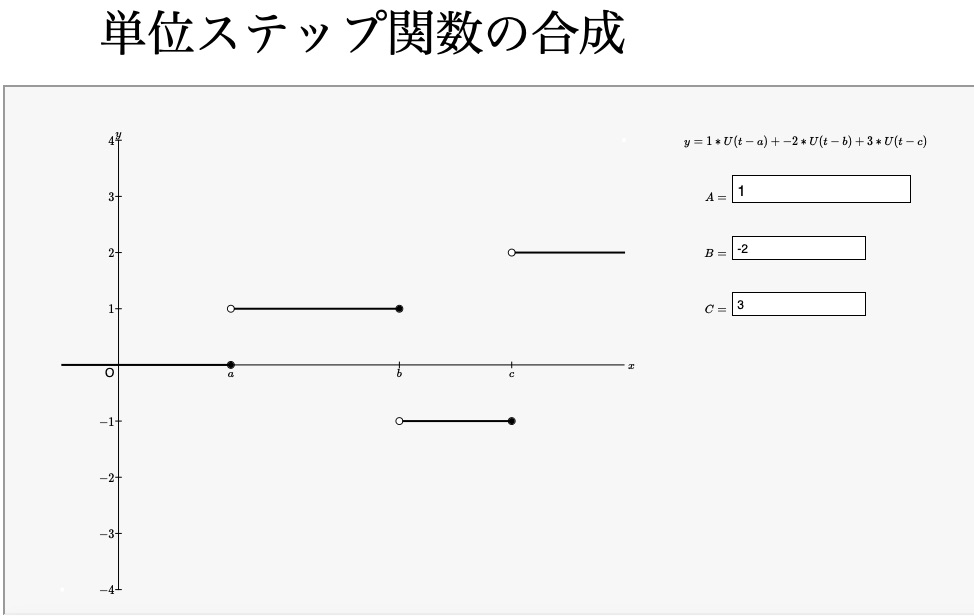
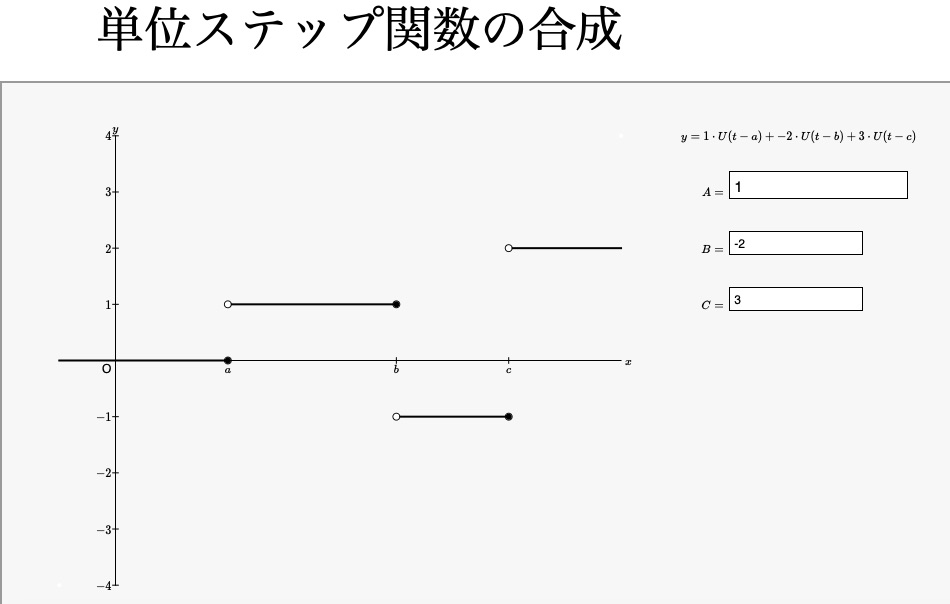
2020/05/06 5th revised

diff --git a/Cmath/Fourier/offL/unit-stepjsoffL.html b/Cmath/Fourier/offL/unit-stepjsoffL.html
@@ -1347,7 +1347,7 @@ Movetojs(1,[11,3-0.15],15);
 Movetojs(2,[11,2-0.15],15);
 Movetojs(3,[11,1-0.15],15); 
 
-Expr([10,4],"e","y="+str1+"*U(t-a)+"+str2+"*U(t-b)+"+str3+"*U(t-c)");
+Expr([10,4],"e","y="+str1+"\cdot U(t-a)+"+str2+"\cdot U(t-b)+"+str3+"\cdot U(t-c)");
 
 Htickmark([aa,"a",bb,"b",cc,"c"]);
 Vtickmark([-4,"-4",-3,"-3",-2,"-2",-1,"-1",1,"1",2,"2",3,"3",4,"4"]);
@@ -1389,9 +1389,9 @@ var cdy = CindyJS({
   ],
   ports: [{
     id: "CSCanvas",
-    width: 1030,
+    width: 1029,
     height: 526,
-    transform: [{visibleRect: [-2.020931415547219, 4.947467591589303, 16.315743592119187, -4.4166984802869385]}],
+    transform: [{visibleRect: [-2.0205947702622686, 4.940220693813036, 16.298277640309315, -4.423945378063205]}],
     background: "rgb(247,247,247)"
   }],
   csconsole: false,

diff --git a/Cmath/Fourier/unit-step/unit-stepjson.html b/Cmath/Fourier/unit-step/unit-stepjson.html
@@ -1347,7 +1347,7 @@ Movetojs(1,[11,3-0.15],15);
 Movetojs(2,[11,2-0.15],15);
 Movetojs(3,[11,1-0.15],15); 
 
-Expr([10,4],"e","y="+str1+"*U(t-a)+"+str2+"*U(t-b)+"+str3+"*U(t-c)");
+Expr([10,4],"e","y="+str1+"\cdot U(t-a)+"+str2+"\cdot U(t-b)+"+str3+"\cdot U(t-c)");
 
 Htickmark([aa,"a",bb,"b",cc,"c"]);
 Vtickmark([-4,"-4",-3,"-3",-2,"-2",-1,"-1",1,"1",2,"2",3,"3",4,"4"]);
@@ -1389,9 +1389,9 @@ var cdy = CindyJS({
   ],
   ports: [{
     id: "CSCanvas",
-    width: 1030,
+    width: 1029,
     height: 526,
-    transform: [{visibleRect: [-2.020931415547219, 4.947467591589303, 16.315743592119187, -4.4166984802869385]}],
+    transform: [{visibleRect: [-2.0205947702622686, 4.940220693813036, 16.298277640309315, -4.423945378063205]}],
     background: "rgb(247,247,247)"
   }],
   csconsole: false,

diff --git a/Cmath/Fourier/offL/unit-stepmainoffL.html b/Cmath/Fourier/offL/unit-stepmainoffL.html
@@ -13,7 +13,7 @@
 <p></p>
 <p><font size="10">&emsp;&emsp;単位ステップ関数の合成</font></p>
 <p></p>
-<iframe src="unit-stepjsoffL.html" width="1030" height="526"></iframe>
+<iframe src="unit-stepjsoffL.html" width="1029" height="526"></iframe>
 <p></p>
 <p><font size="5">&emsp;(1)&emsp;$A$の値を入力する．</font></p></br>
 <p><font size="5">&emsp;(2)&emsp;$B$の値を入力する．</font></p></br>

diff --git a/Cmath/Fourier/unit-step/unit-stepmainon.html b/Cmath/Fourier/unit-step/unit-stepmainon.html
@@ -13,7 +13,7 @@
 <p></p>
 <p><font size="10">&emsp;&emsp;単位ステップ関数の合成</font></p>
 <p></p>
-<iframe src="unit-stepjson.html" width="1030" height="526"></iframe>
+<iframe src="unit-stepjson.html" width="1029" height="526"></iframe>
 <p></p>
 <p><font size="5">&emsp;(1)&emsp;$A$の値を入力する．</font></p></br>
 <p><font size="5">&emsp;(2)&emsp;$B$の値を入力する．</font></p></br>
